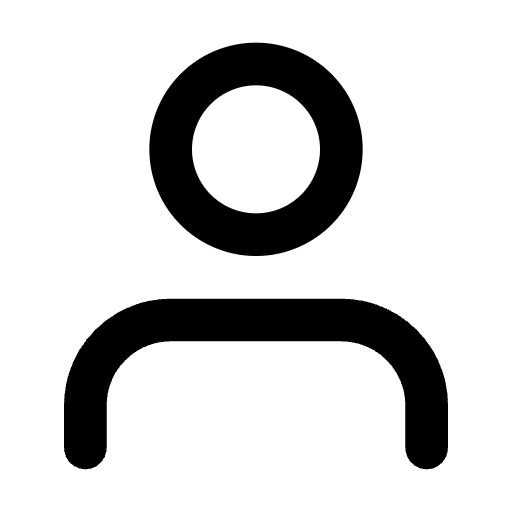
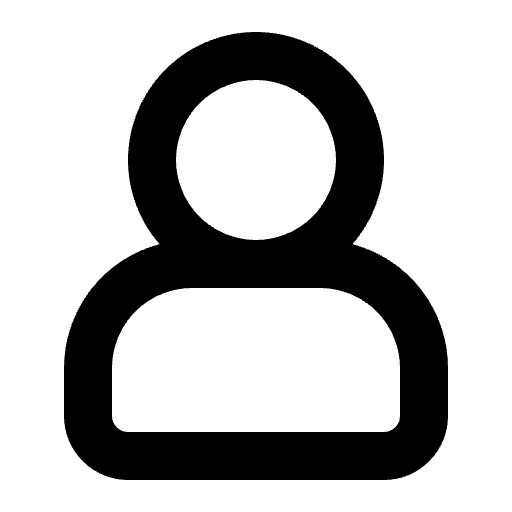
fix: 헤더 로고 이미지 변경 및 메뉴 아이콘 변경 (#54)

Changed region(s): [[0.125, 0.0625, 0.875, 0.75], [0.1562, 0.75, 0.875, 0.9375], [0.125, 0.8438, 0.1562, 0.9062]]

diff --git a/fe/src/components/Header.jsx b/fe/src/components/Header.jsx
@@ -5,7 +5,6 @@ import IconPlusLabel from './Labels/IconPlusLabel'
 import SearchTextField from './SearchTextField'
 import CustomModal from './Modal/CustomModal'
 import LoginModalContent from './Modal/LoginModalContent'
-import LogoIconPlusLabel from './Labels/LogoIconPlusLabel'
 
 import '@styles/components/HeaderFooter.css'
 
@@ -37,7 +36,7 @@ export default function Header() {
  
   const options = [
     {
-      icon: "/src/assets/comunity.png",
+      icon: "/src/assets/community.png",
       text: "커뮤니티", 
       onClick: navigateToCommunityList,
     }, 
@@ -67,8 +66,8 @@ export default function Header() {
   return(
     <div className='header_container'>
       <CustomModal isOpen={isModalOpen} onClose={closeModal} content={modalContent} />
-      <div className='header_container_logo'>
-        <LogoIconPlusLabel onClick={navigateToHome}/>
+      <div className='loginModal_container_top'>
+        <img src="/src/assets/ducktion_logo.png" onClick={navigateToHome}/>
       </div>
       <div className='header_container_searchField'>
         <SearchTextField placeholder={'커뮤니티 이름, 상품 이름을 입력해 주세요'} onSearch={(searchText) => handleSearch(searchText)} />

diff --git a/fe/src/components/Modal/LoginModalContent.jsx b/fe/src/components/Modal/LoginModalContent.jsx
@@ -13,7 +13,7 @@ export default function LoginModalContent({ onClose }) {
   return (
     <div className='loginModal_container'>
       <div className='loginModal_container_top'>
-        <img src="/src/assets/duckiton_logo.png" />
+        <img src="/src/assets/ducktion_logo.png" />
         <PreTextLabel text={"로그인이 필요한 서비스입니다."} />
       </div>
       <div className='loginModal_container_bottom'>

diff --git a/fe/src/styles/components/modal/LoginModalContent.css b/fe/src/styles/components/modal/LoginModalContent.css
@@ -14,8 +14,8 @@
 }
 
 .loginModal_container_top img {
-  width: 120px;
-  aspect-ratio: 16 / 9; 
+  width: 130px;
+  height: 60px;
 }
 
 .loginModal_container_bottom img {
